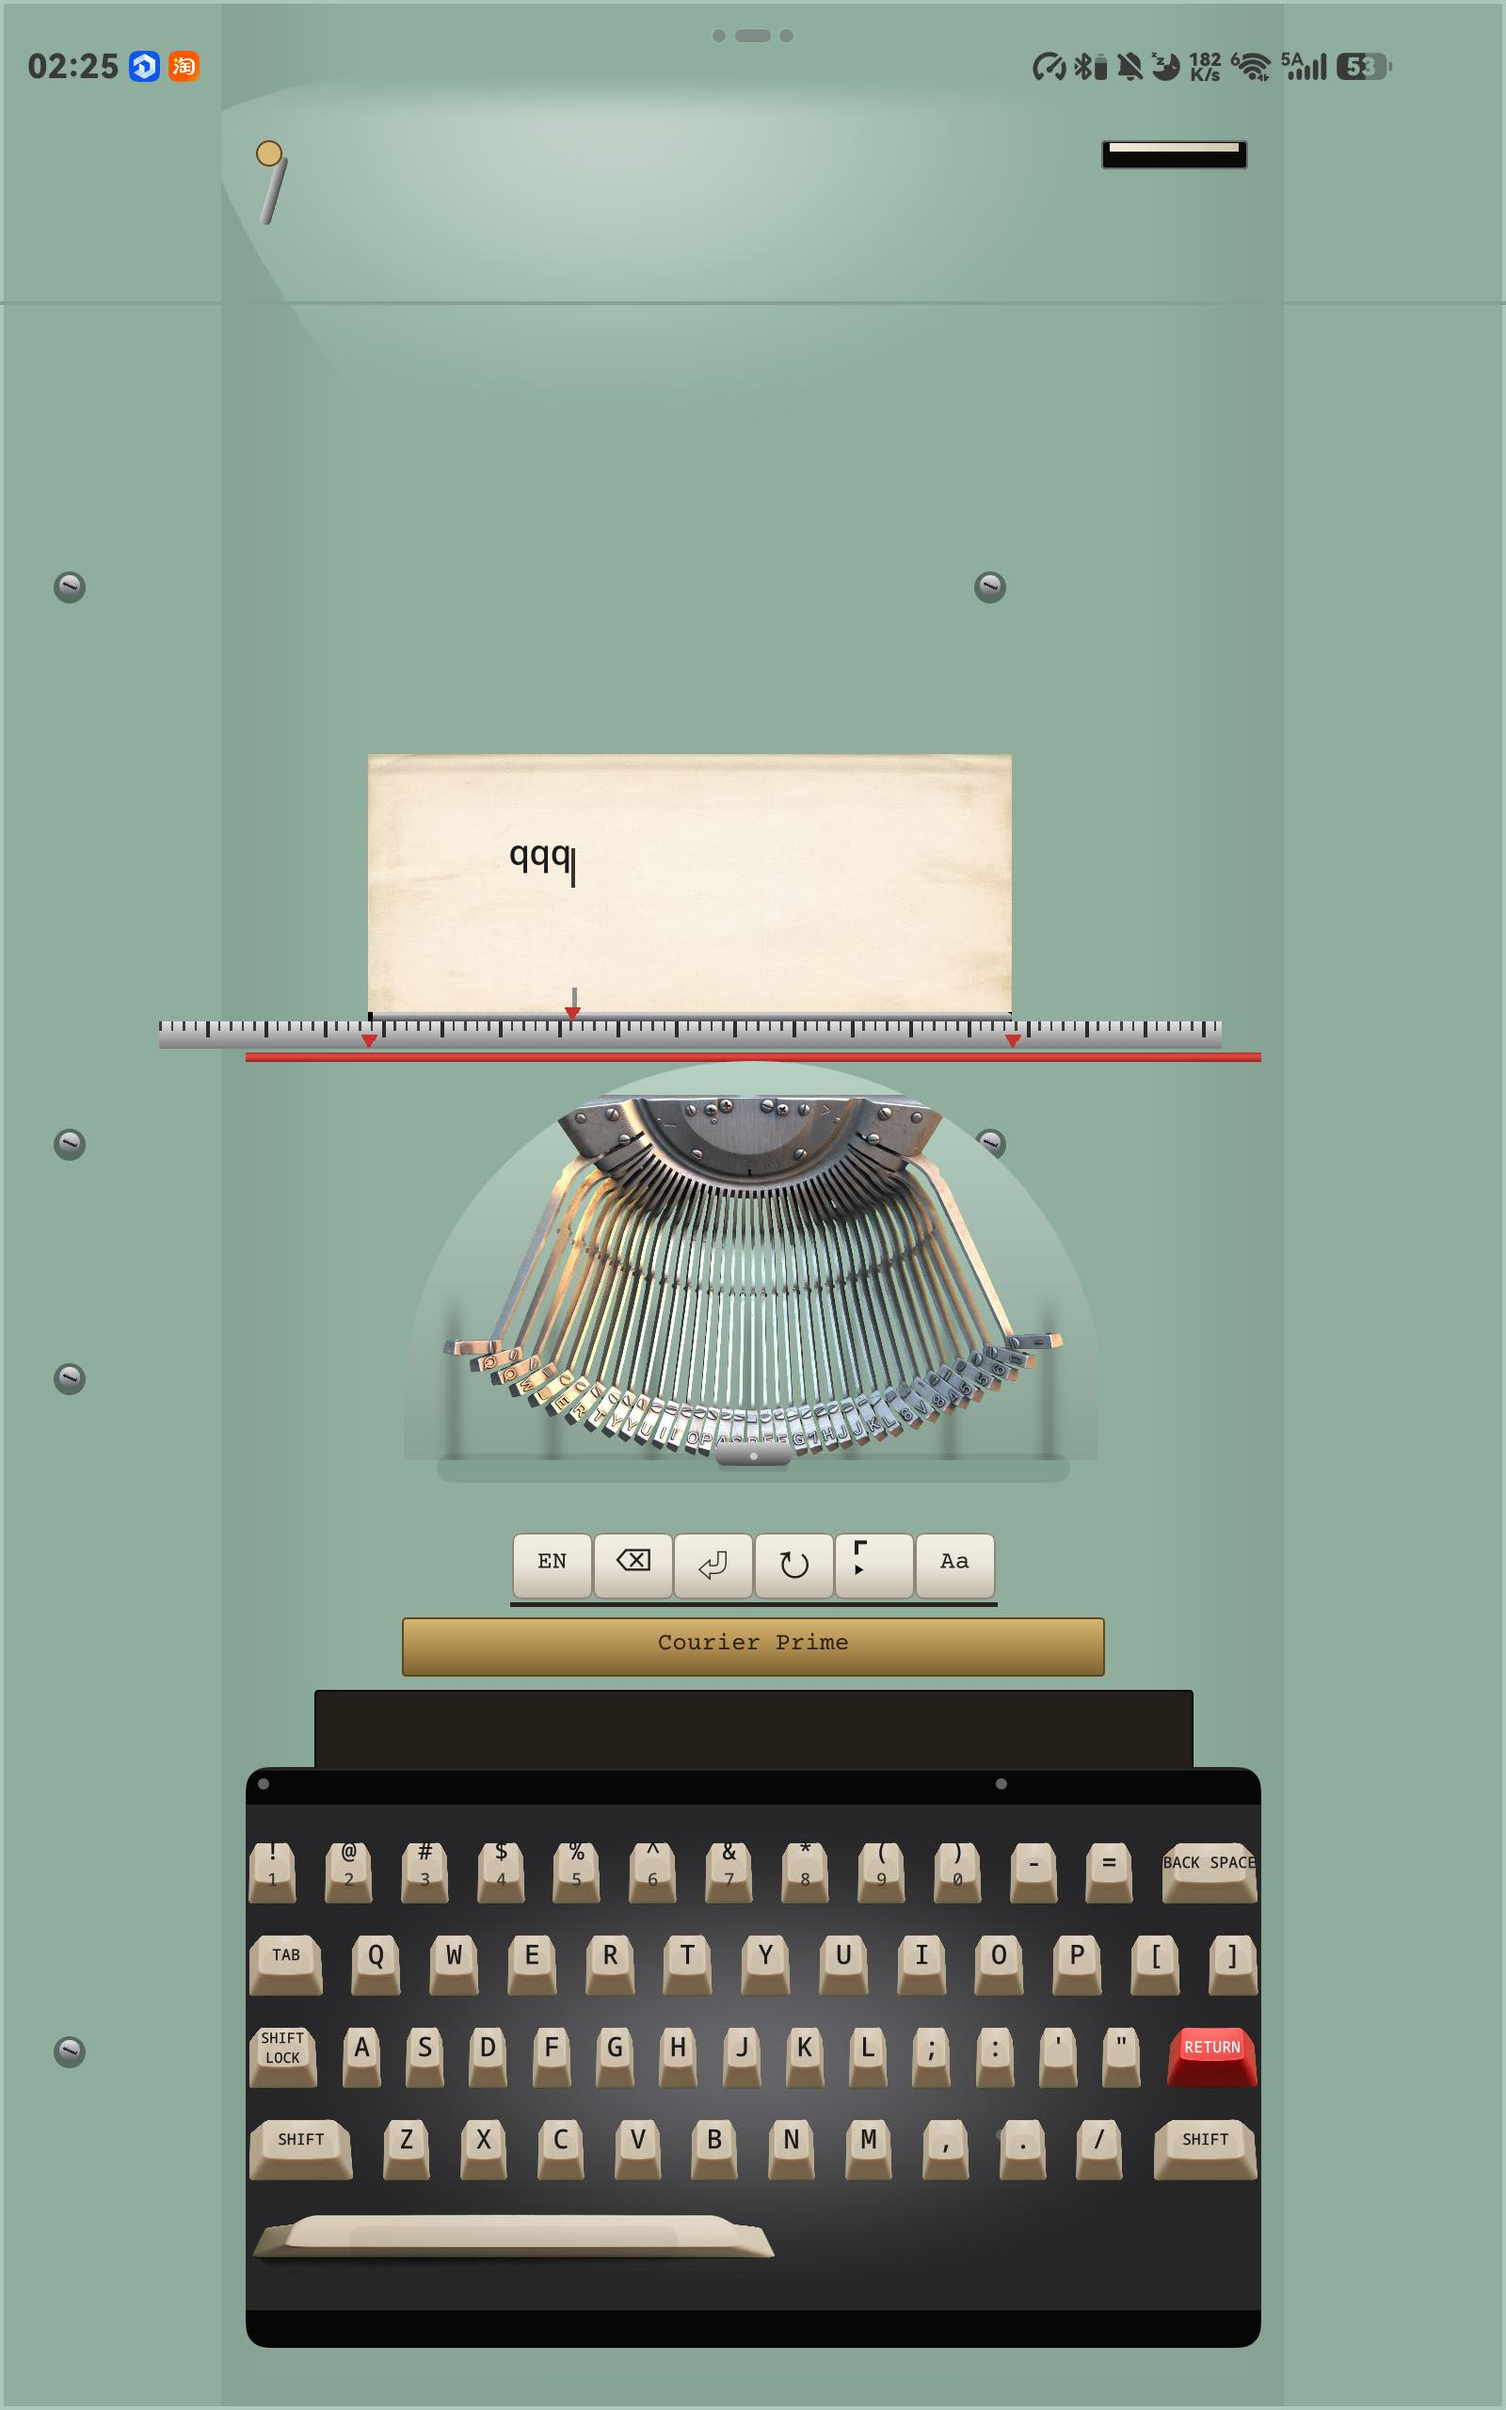
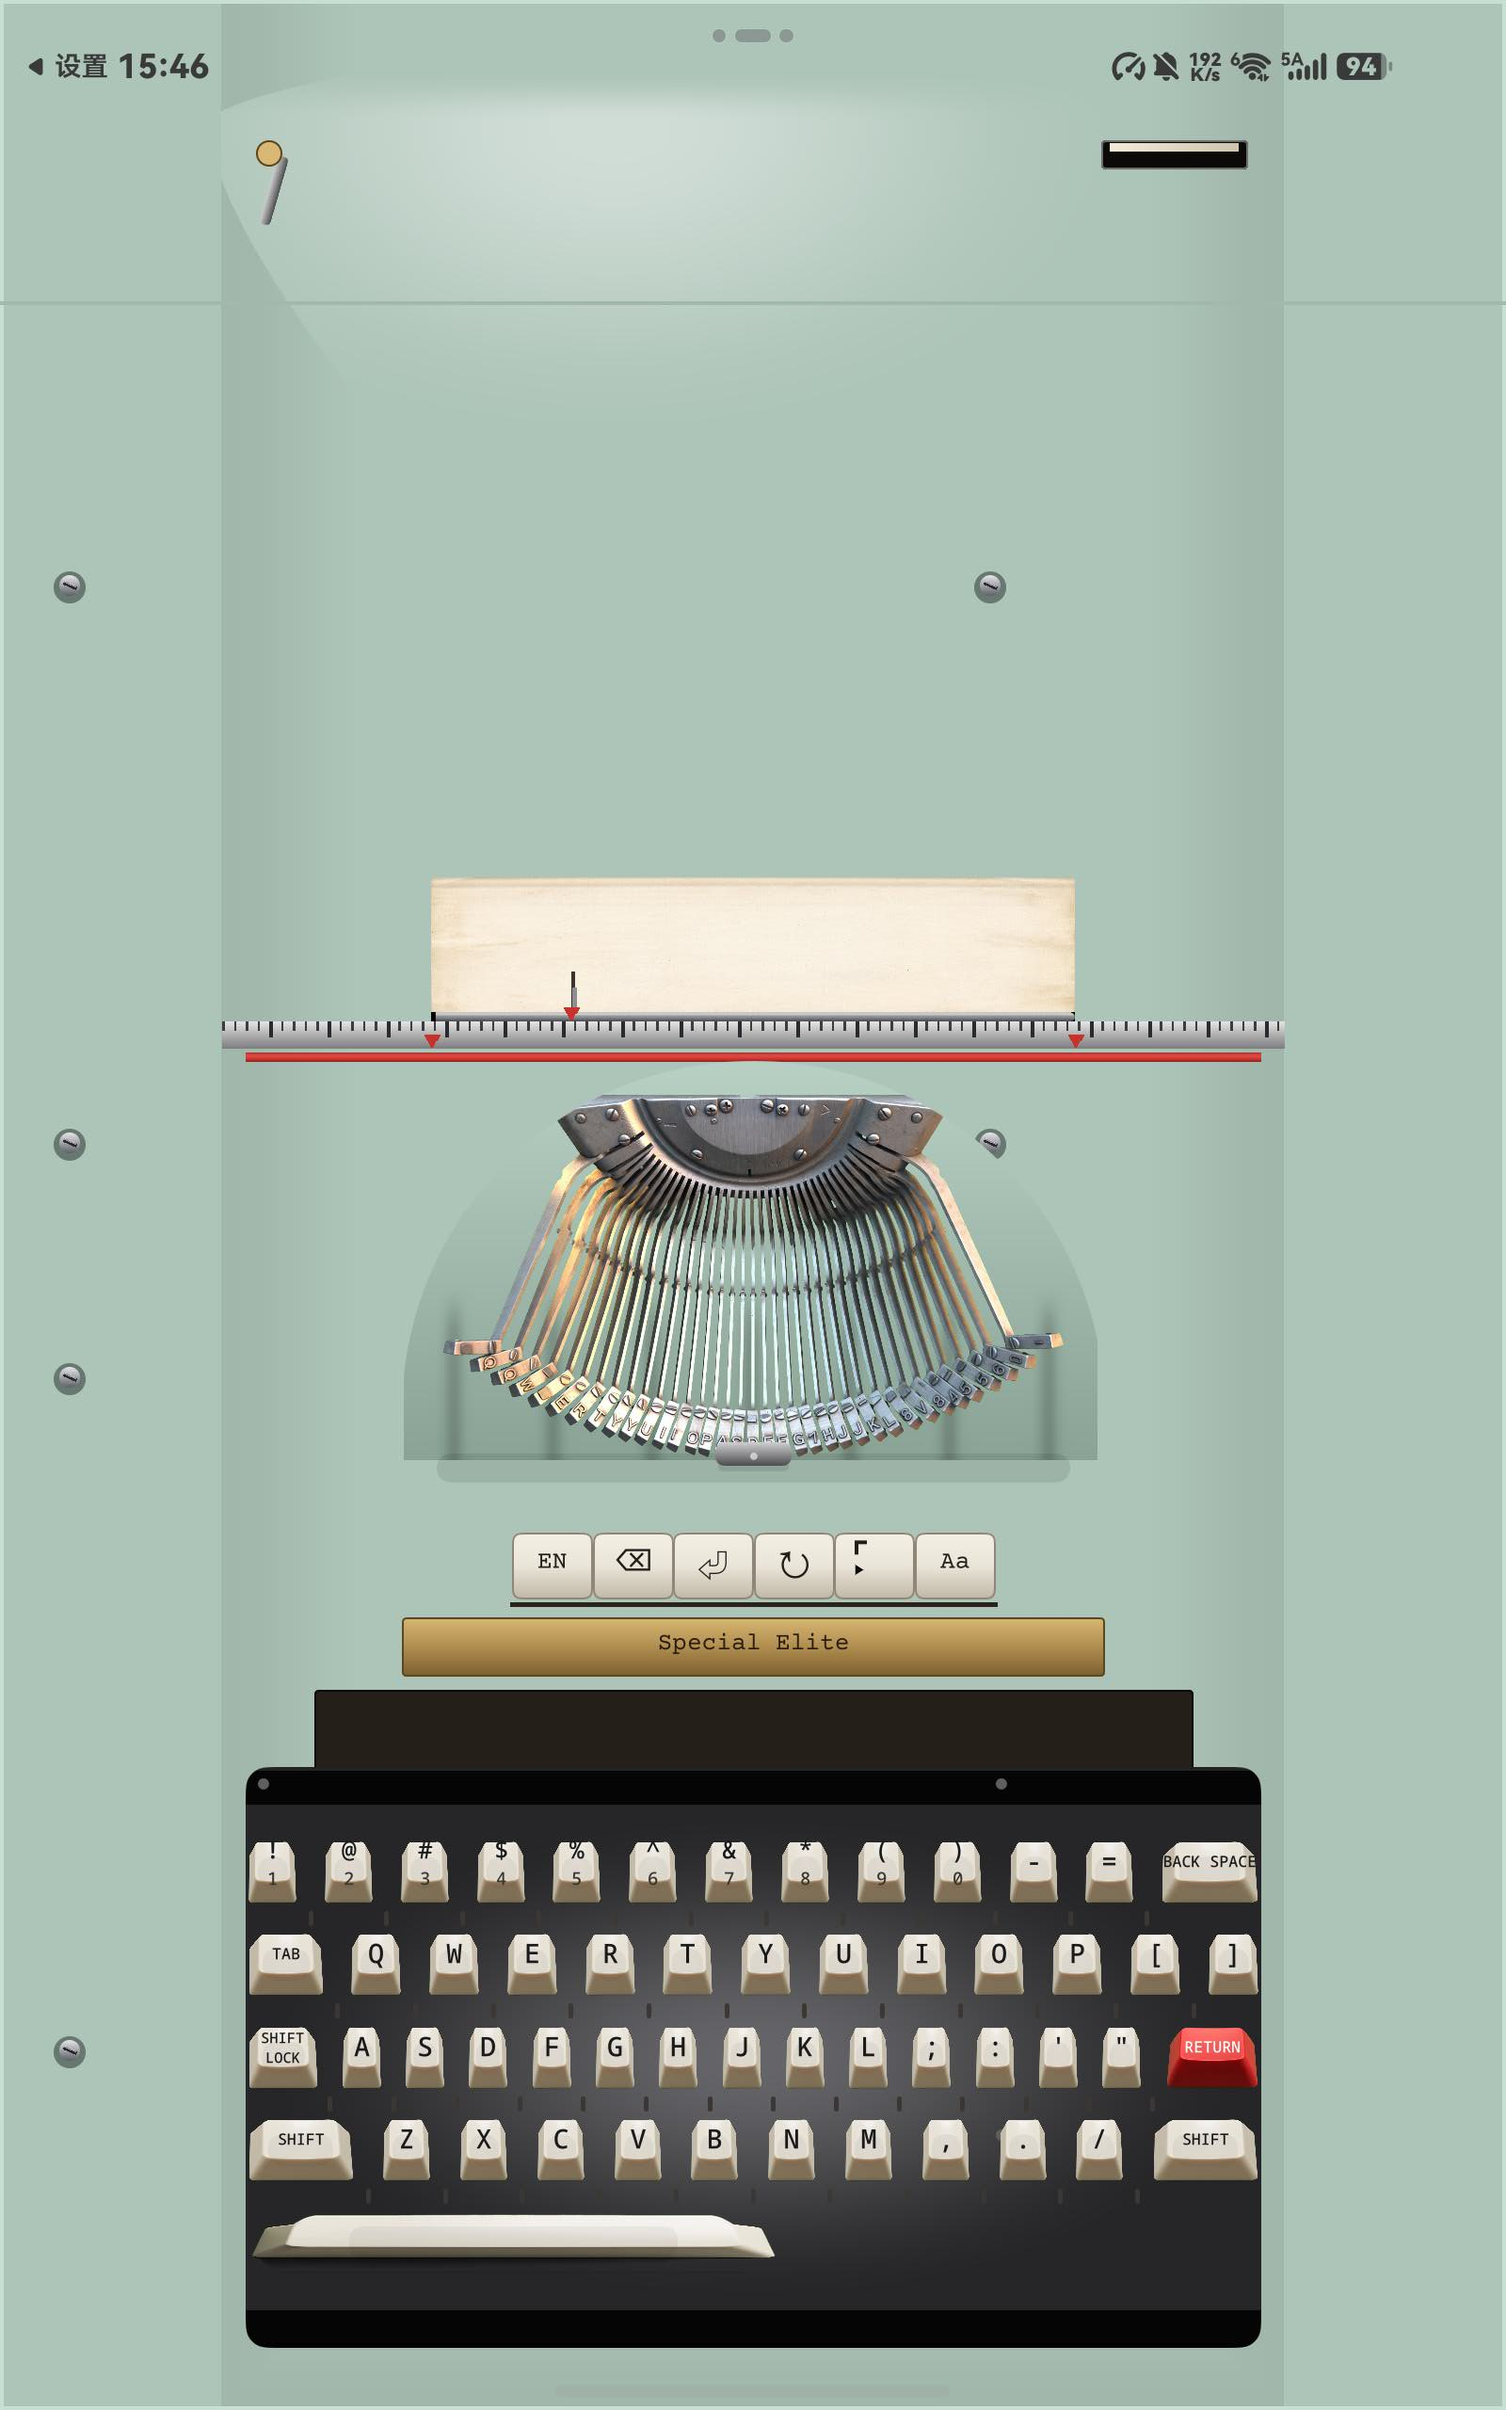
批64 阶段1 第十九步：清死参数 syncVisible ＋ 按当前构建重拍 2283/2286/2290
- Index.ets：recalcPaperHeight 删 syncVisible（上一轮改「恒同步 paperGrowVp」后该开关已无分支），
  animatePaperHeight 调用点同步改单参；grep syncVisible 只剩注释里的历史说明
- docs/shots 重拍（同一轮、间隔 1.05s、命中 100%）：纸高按 p35_paper bbox ÷2.375 记录——
  1 行 64.4 / 8 行 256.8 / 9 行 284.6 / 10 行 312.0 / 12 行 366.7 / 换纸后 64.4（vp）；
  parts 257.0／284.5／312.0／366.9 与旧自检逐字一致，但现在是「看得见地随行数增长」
- 12 行时三区 rect 完全不变（carriage/basket/keywell）；2290 落字 committed ch=[q] shift=off sym=off，
  字体条 font cycle -> SpecialElite (idx 1/17)，换纸 newlineAtLastRow -> paperChange maxRows=12 -> done 600ms
- 自检 docs/evidence/p36/selfcheck.md 第十九步（六①② 口径仍未拍板、2282 未重拍）

构建 BUILD SUCCESSFUL；平板 install bundle successfully。

diff --git a/docs/evidence/p36/selfcheck.md b/docs/evidence/p36/selfcheck.md
@@ -2429,3 +2429,32 @@ F 项里打字主链路（落字/回车/退格/换纸/功能行）成立；**F-1
 
 **本轮结束时的设备状态**：停在打字页、**1 行空纸**、机型 `1920s-upright`、`cn_engine=builtin`；
 重启会回到 12 行空纸（换纸不落盘，见第十六步待办——未拍板前不动）。
+
+### 批 64 阶段 1 第十九步：清死参数 ＋ 按当前构建重拍 2283／2286／2290
+
+- `recalcPaperHeight(kind, syncVisible)` 的 `syncVisible` 删除：上一轮改成「恒同步 paperGrowVp」后该开关已无分支，
+  `animatePaperHeight()` 的调用点同步改成单参；`grep syncVisible` 只剩注释里的历史说明。构建 `BUILD SUCCESSFUL`。
+- 证据重拍（同一轮、间隔 1.05s、命中 100%）：纸高一律按 `p35_paper` bbox ÷ 2.375 记录，与 `parts` 对账：
+
+| 状态 | paperHVp | parts（paperTop／paperBox） |
+|---|---|---|
+| 1 行（清空后） | **64.4** | 340.7／64.5 |
+| 8 行 | **256.8** | 148.2／257.0 |
+| 9 行 | **284.6** | 120.7／284.5 |
+| 10 行 | **312.0** | 93.2／312.0 |
+| 12 行（满纸） | **366.7** | 38.3／366.9 |
+| 换纸后（1 行） | **64.4** | 340.7／64.5 |
+
+- **数字与旧自检逐字一致**（257.0／284.5／312.0／366.9），但现在是「看得见地随行数增长」——
+  旧构建里纸高恒 ≈863px（363vp），只是 `parts` 在变（第十六步已记账并修好）。
+- 三区 rect 在 12 行时完全不变：`p35_carriage (236,133)-(1365,1127)`、`p26_basket (427,1127)-(1174,1557)`、
+  `p33_key_well (261,1877)-(1340,2494)` ⇒「纸区高度不变、键盘井不压缩」仍成立。
+- `docs/shots/2286_p64_paper_boxes.png`（10 行）、`docs/shots/2283_p64_paper_cap.png`（12 行）已按当前构建覆盖重拍。
+- 2290 主链：`committed ch=[q] shift=off sym=off`（`2290_p64_chain_typed.png`）；
+  字体条 `font cycle -> SpecialElite (idx 1/17)`（`2290_p64_chain_font.png`）；
+  换纸 `newlineAtLastRow -> paperChange maxRows=12` → `paperChange done at 600ms top=340.7`。
+  （旧自检里的 `font cycle -> CourierPrime (idx 0/17)` 与这里的 `SpecialElite (idx 1/17)` 不矛盾——
+  字体循环按当前字体顺延，两次起点不同；两图并存。）
+
+**口径状态（未变，等拍板）**：六① 每行 17 字、六② 12 行／366.9 仍未定；2282 未重拍（满行口径未定），
+`2283` 当前按「12 行满纸＋自动换纸」记。
